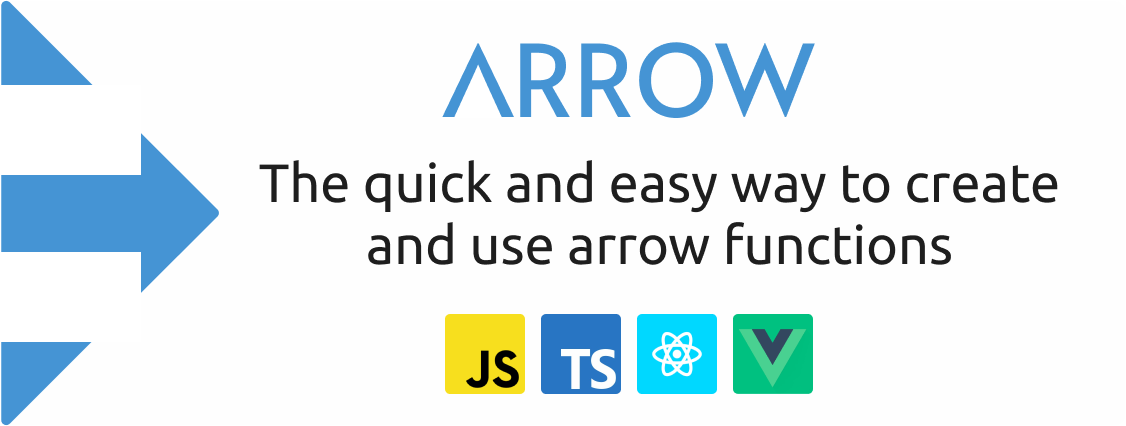
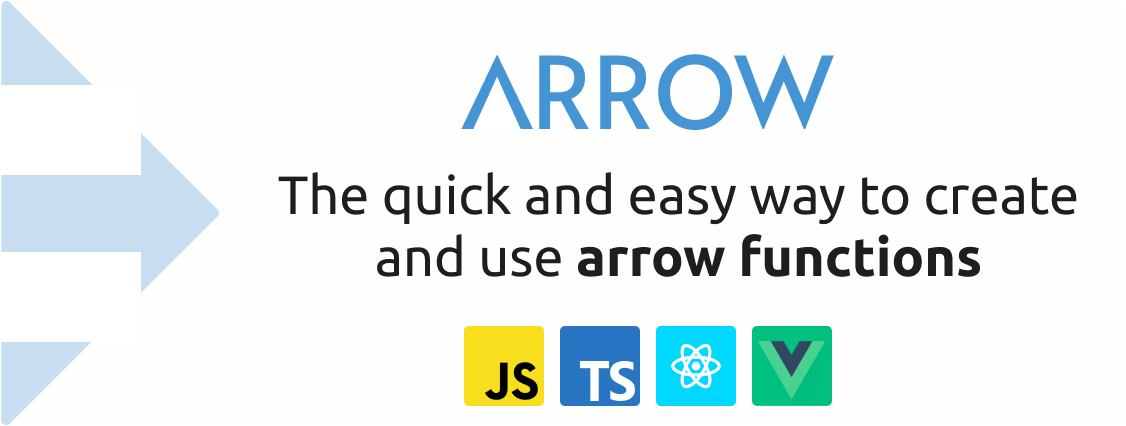
fix preview image

diff --git a/CHANGELOG.md b/CHANGELOG.md
@@ -9,6 +9,12 @@ Fixed       for any bug fixes.
 Security    to invite users to upgrade in case of vulnerabilities.
 -->
 
+## [2.1.2] - 2022/04/21
+
+### Fixed
+
+- preview image
+
 ## [2.1.1] - 2022/04/20
 
 ### Removed
